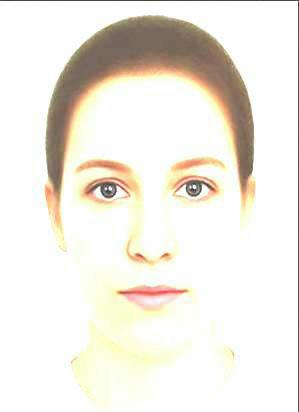
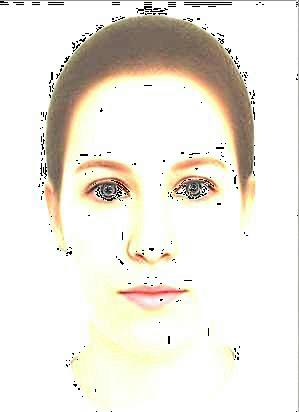
morph_toggleCE does not work very well. morph_CE has an overflow issue. Still need to find my own algo. Still need to write the report.

diff --git a/a1p1_code.py b/a1p1_code.py
@@ -1,7 +1,7 @@
 #####
 #####               Imports
 #####
-import numpy
+import numpy as np
 import math
 import sys
 
@@ -36,9 +36,9 @@ def Image_To_RGB(img):
 def Image_rgb2yuv(img_r, img_g, img_b):
 # Calls rgb2yuv for every pixel in a color image 
     print('Image_rgb2yuv: row: ' + str(len(img_r)) + ' cols: ' + str(len(img_r[0])))
-    img_y = numpy.zeros((img_r.shape[0], img_r.shape[1]))
-    img_u = numpy.zeros((img_r.shape[0], img_r.shape[1]))
-    img_v = numpy.zeros((img_r.shape[0], img_r.shape[1]))
+    img_y = numpy.zeros((img_r.shape[0], img_r.shape[1]), 'uint8')
+    img_u = numpy.zeros((img_r.shape[0], img_r.shape[1]), 'uint8')
+    img_v = numpy.zeros((img_r.shape[0], img_r.shape[1]), 'uint8')
 
     colCount = int(img_r.shape[0])
     rowCount = int(img_r.shape[1])
@@ -86,7 +86,7 @@ def rgb2yuv(r, g, b):
     u = r * -0.168736 + g * -0.331264 + b * 0.5000000 + 128
     v = r * 0.500000 + g * - 0.418688 + b * -0.081312 + 128    
 
-    return y, u, v
+    return np.uint8(y), np.uint8(u), np.uint8(v)
 
 
 #####
@@ -139,17 +139,14 @@ def ReadCLArgs(thisDir):
 def morph_CE(img_r, img_g, img_b):
     print('-- Starting morph_CE')
 
-    newCr = morph.morph_CE(img_r)
-    print('- Done red')
-    newCg = morph.morph_CE(img_g)
-    print('- Done green')
-    newCb = morph.morph_CE(img_b)
-    print('- Done blue')
+    img_y, img_u, img_v = Image_rgb2yuv(img_r, img_g, img_b)
+    new_y = morph.morph_CE(img_y)
+    new_r, new_g, new_b = Image_yuv2rgb(new_y, img_u, img_v)
 
     print('-- Ending morph_CE')
     
 
-    return newCr, newCg, newCb
+    return new_r, new_g, new_b
 
 
 #####
@@ -158,16 +155,13 @@ def morph_CE(img_r, img_g, img_b):
 def morph_toggleCE(img_r, img_g, img_b, nBlocks=20):
     print('-- Starting morph_toggleCE')
 
-    newCr = morph.morph_toggleCE(img_r)
-    print('- Done red')
-    newCg = morph.morph_toggleCE(img_g)
-    print('- Done green')
-    newCb = morph.morph_toggleCE(img_b)
-    print('- Done blue')
+    img_y, img_u, img_v = Image_rgb2yuv(img_r, img_g, img_b)
+    new_y = morph.morph_toggleCE(img_y)
+    new_r, new_g, new_b = Image_yuv2rgb(new_y, img_u, img_v)
 
     print('-- Ending morph_toggleCE')
 
-    return newCr, newCg, newCb
+    return new_r, new_g, new_b
 
 
 #####

diff --git a/a1p1.py b/a1p1.py
@@ -31,23 +31,6 @@ print('')
 #####
 img_r, img_g, img_b = imageIO.imread_colour(inputImage)
 
-y, u, v = rgb2yuv(0, 0, 0)
-
-"""
-print("y is: " + str(y))
-print("u is: " + str(u))
-print("v is: " + str(v))
-
-r, g, b = yuv2rgb(y, u, v)
-
-  
-print("r is: " + str(r))
-print("g is: " + str(g))
-print("b is: " + str(b))
-"""
-
-img_y, img_u, img_v = Image_rgb2yuv(img_r, img_g, img_b)
-new_r, new_g, new_b = Image_yuv2rgb(img_y, img_u, img_v)
 
 #####
 #####               Process the image
@@ -55,9 +38,12 @@ new_r, new_g, new_b = Image_yuv2rgb(img_y, img_u, img_v)
 if algo == 'morph_toggleCE':
     new_r, new_g, new_b = a1p1_code.morph_toggleCE(img_r, img_g, img_b)
 
+    
+    new_r, new_g, new_b = a1p1_code.morph_toggleCE(new_r, new_g, new_b)
+    new_r, new_g, new_b = a1p1_code.morph_toggleCE(new_r, new_g, new_b)
+
 elif algo == 'morph_CE':
-    print('morphce skipped...')
-    #new_r, new_g, new_b = a1p1_code.morph_CE(img_r, img_g, img_b)
+    new_r, new_g, new_b = a1p1_code.morph_CE(img_r, img_g, img_b)
 
 elif algo == 'DREW':
     new_r, new_g, new_b = a1p1_code.DREW(img_r, img_g, img_b)
